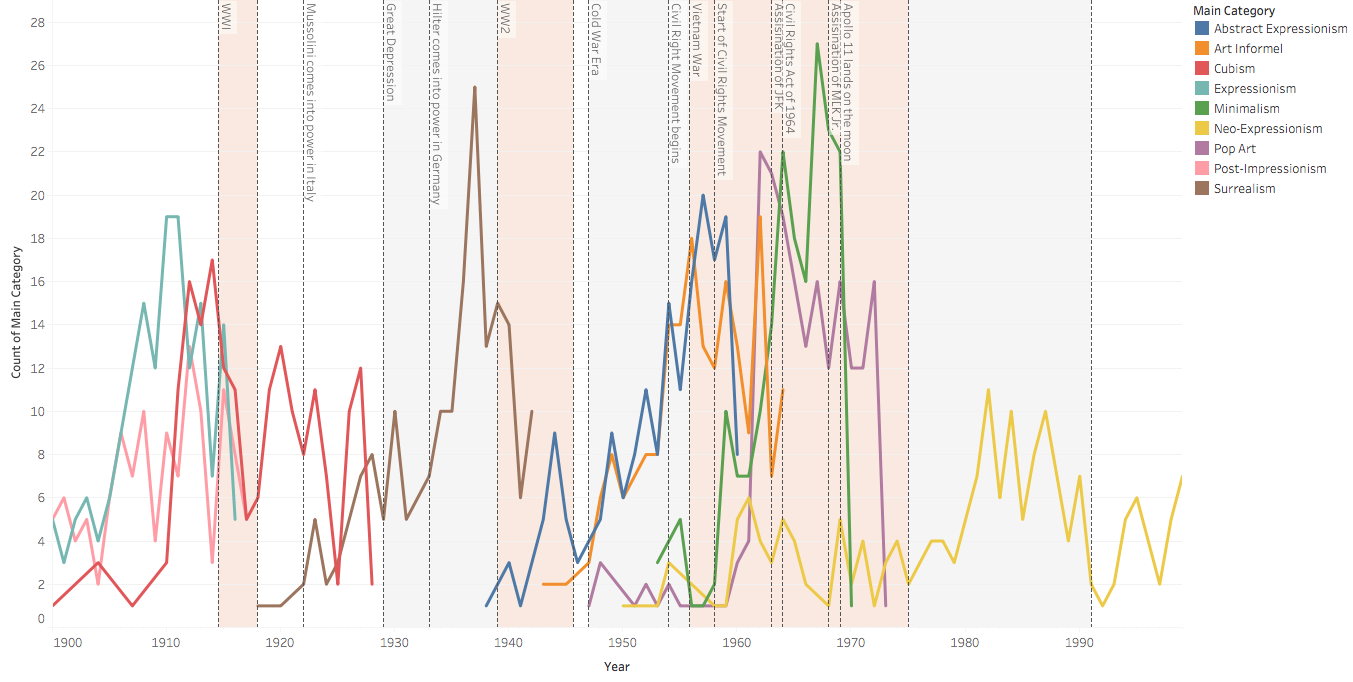
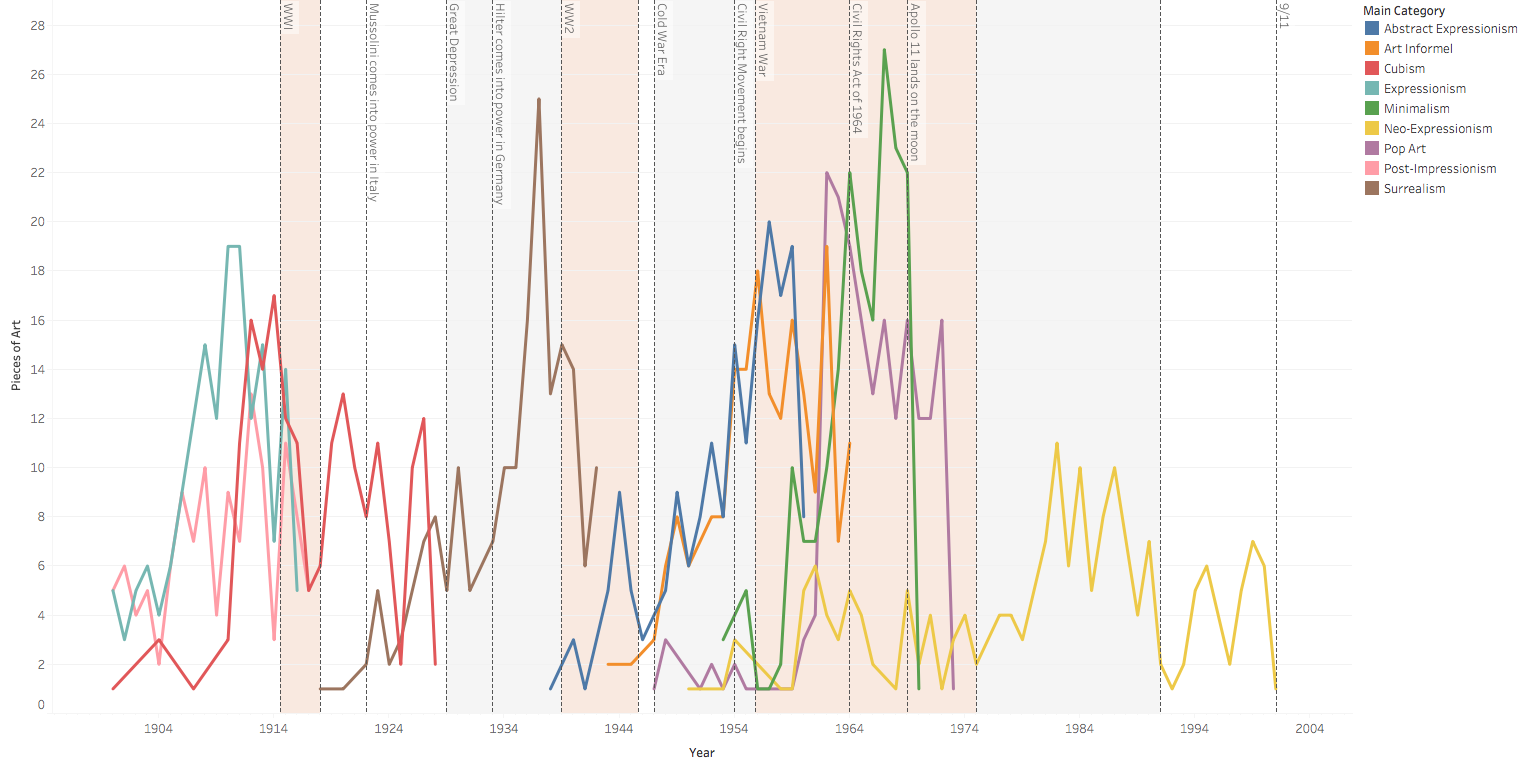
update text for art movements and the image

diff --git a/index.html b/index.html
@@ -11,13 +11,13 @@
   <body>
     <div class="top-bar">
       <div class="top-bar-left">
-        <span class="menu-text">Site Title</span>
+        <span class="menu-text">Is Art Political?</span>
       </div>
       <div class="top-bar-right">
         <ul class="menu">
-          <li><a href="#viz-one">Viz One</a></li>
-          <li><a href="#viz-two">Viz Two</a></li>
-          <li><a href="#viz-three">Viz Three</a></li>
+          <li><a href="#viz-one">Art Movements</a></li>
+          <li><a href="#viz-two">Emotions</a></li>
+          <li><a href="#viz-three">Level of Detail</a></li>
           <li><a href="#viz-four">Viz Four</a></li>
         </ul>
       </div>
@@ -25,23 +25,20 @@
     <div class="main-content">
       <section id="viz-one">
         <div class="grid-x grid-padding-x">
-          <div class="cell small-12 medium-7 xlarge-6">
-            <img src= "viz-one-alt.png">
-          </div>
-          <div class="cell small-12 medium-5 xlarge-6 small-only-text-center flex-container flex-dir-column align-center">
-            <h4>Frequency of Art throughout the 20th Century.</h4>
-            <p>Shrink the browser width to see me stack. I do tricks for dog treats, but I'm not a dog.</p>
-          </div>
-        </div>
-      </section>
-      <section id="viz-two">
-        <div class="grid-x grid-padding-x">
-          <div class="cell small-12 medium-7 xlarge-6">
+          <div class="cell small-12 medium-7 xlarge-6 flex-container flex-dir-column align-center">
             <img src= "viz-one-filtered.png">
+            <div class="">
+              <small>Note: This only includes art movements where the count of art for at least one year in the 20th century was over 10 pieces from the surveyed art.</small>
+            </div>
           </div>
-          <div class="cell small-12 medium-5 xlarge-6 small-only-text-center flex-container flex-dir-column align-center">
-            <h4>Frequency of Art throughout the 20th Century Separated by Art Category.</h4>
-            <p>This only includes art categories where the maximum count of art for a given year in the 20th century was over 10 pieces.</p>
+          <div class="cell content small-12 medium-5 xlarge-6 small-only-text-center">
+            <h4>Art Movements Throughout the 20th Century.</h4>
+            <p>The line chart shows the popular art movements of the 20th century. When thinking about art movements, you might often relate them to main events in history and what the catalysts were. In this line chart, two moments in history stand out: the events leading up to WWII and the Civil Rights Movement.</p>
+            <p>Surrealism begins as a movement after WWI and is at its peak right before the start of WWII. At this time, the world is suffering economically, which gives rise to fascist and communist movements. Mussolini comes into power in Italy in 1922 and Hitler comes into power in Germany in 1933. After both of these events, there is a small spike in Surrealism art. </p>
+            <p>In relation to the U.S. history, 1929 is the start of the Great Depression with 1933 being the worst year. Both of these points also have spikes in Surrealism. Tensions are building for the second World War and by 1935, the U.S. passed the Neutrality Act of 1935 and declares it unsafe to travel for American citizens in warring nations. This year marks the rise of Surrealism to its peak in 1937. As WWII begins, the movement decreases until a small spike in 1941 (the year of Pearl Harbor) before Abstract Expressionism takes over.</p>
+            <p>Abstract Expressionism and Art Informal take over as the main art movements after WWII and during the beginning of the cold war. Reaching their peaks after the beginning of the Civil Rights Movement. Around 1961 (year the Berlin Wall was constructed) Pop Art and Minimalism starts to become more popular. Though art around this period had become apolitical due to the censorship of the 1950s and its commercial value, it was also used to as a financial support for the Civil Rights Movement, reinvigorating its political nature.*</p>
+            <p>What is also interesting within this period, is that the art movements start to decrease after the Apollo 11 lands on the moon in 1969. This suggests that in addition to the Civil Rights Movement, Cold War tensions leading up to the space race were also affecting the art movements during this period of time. What is learned from this chart is that the art movements seem more attuned to social movements and events rather than times of war.</p>
+            <p><small>*<a href="https://medium.com/popuppainting/the-art-of-the-civil-rights-movement-bbc527cd05da"><strong>Popup Painting. The Art of the Civil Rights Movement. 15 January 2018</strong></a></small></p>
           </div>
         </div>
       </section>

diff --git a/main.css b/main.css
@@ -17,3 +17,8 @@ section {
 .left-border {
   border-left: 1px solid darkgray;
 }
+
+.content {
+  max-height: 80vh;
+  overflow: scroll;
+}
